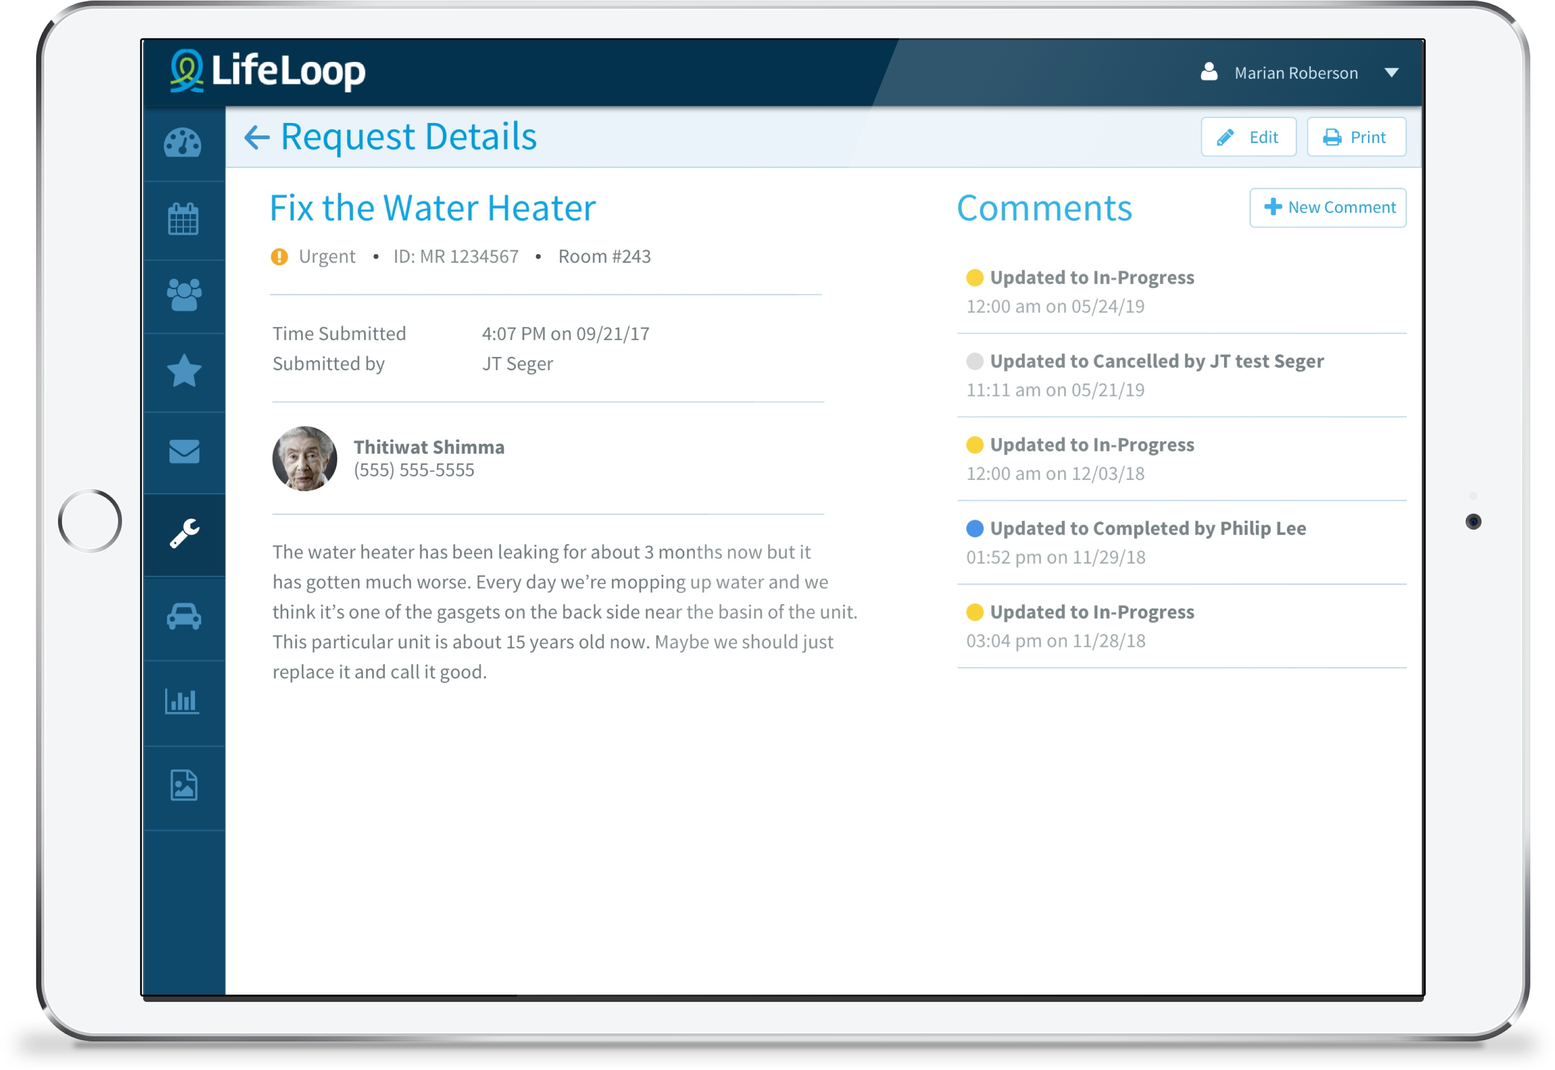
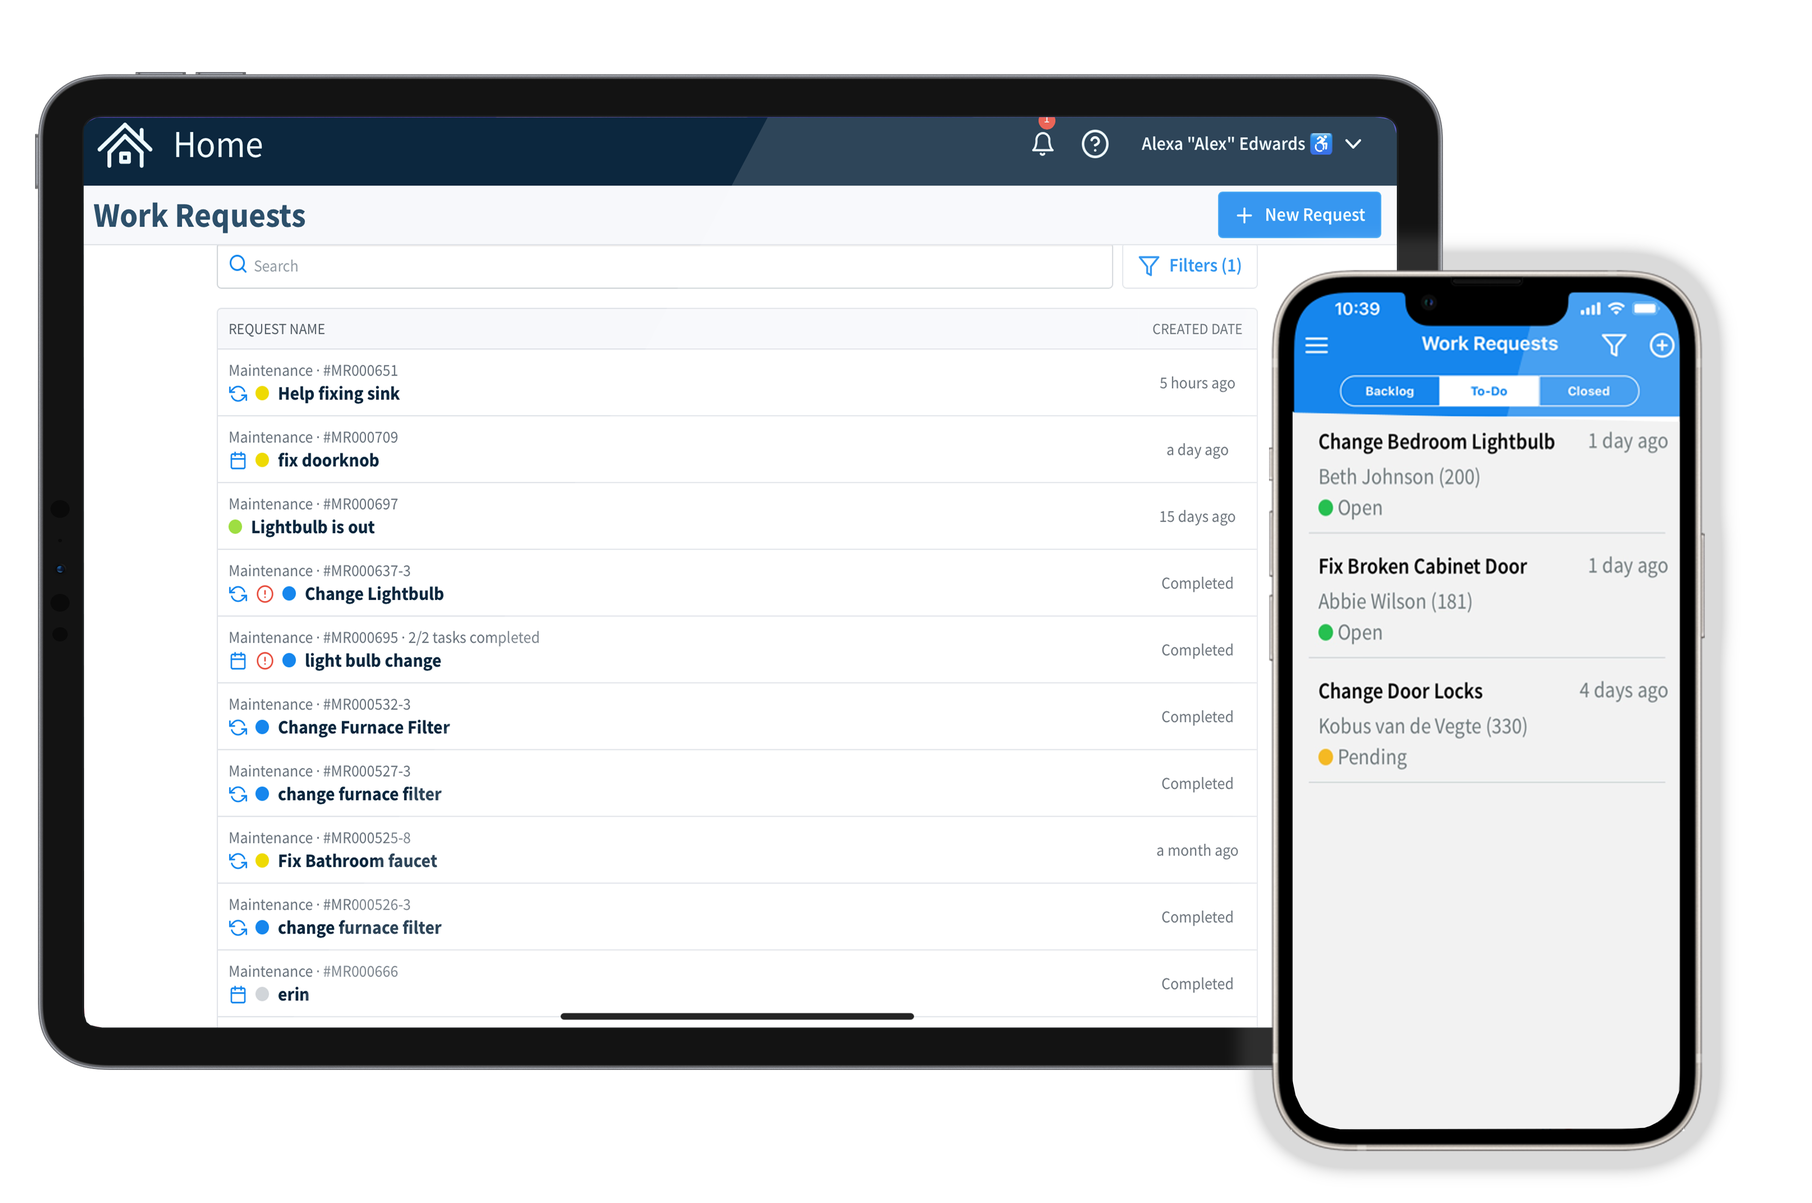
No-mo maintenance

diff --git a/src/components/feature-card-switcher.js b/src/components/feature-card-switcher.js
@@ -43,8 +43,7 @@ const FEATURES = [
     link: NAVIGATION.features.subNav.communication.link,
     headline: 'Optimize your communication efforts',
     image: 'inform',
-    body:
-      'Communication between staff members, family members and residents has never been easier or more efficient. The LifeLoop messaging platform means you can communicate 24/7 from any device.',
+    body: 'Communication between staff members, family members and residents has never been easier or more efficient. The LifeLoop messaging platform means you can communicate 24/7 from any device.',
     bullets: [
       'Easily broadcast messages to all staff, residents and family members who are connected',
       'Staff can send messages back and forth in LifeLoop',
@@ -59,8 +58,7 @@ const FEATURES = [
     link: NAVIGATION.features.subNav.calendar.link,
     headline: 'Activity calendars simplified',
     image: 'dataInformed',
-    body:
-      'LifeLoop has helped communities of all sizes effectively develop, communicate and display their activity calendars to residents and family members.',
+    body: 'LifeLoop has helped communities of all sizes effectively develop, communicate and display their activity calendars to residents and family members.',
     bullets: [
       'Save time with reoccurring activity features',
       'Build robust calendars based on resident likes',
@@ -74,8 +72,7 @@ const FEATURES = [
     link: NAVIGATION.features.subNav.designer.link,
     headline: 'Enhance your calendars & newsletters',
     image: 'newsletterDesigner',
-    body:
-      'The LifeLoop Designer allows you to create calendars, newsletters, marketing pieces, menus and more all within the existing LifeLoop platform. Meaning you don’t need multiple programs to produce and distribute publications from your community. ',
+    body: 'The LifeLoop Designer allows you to create calendars, newsletters, marketing pieces, menus and more all within the existing LifeLoop platform. Meaning you don’t need multiple programs to produce and distribute publications from your community. ',
     bullets: [
       'Easily create branded documents or request templates from our team',
       'Create calendars in monthly, two-week, one-week or daily formats',
@@ -90,8 +87,7 @@ const FEATURES = [
     link: NAVIGATION.features.subNav.displays.link,
     headline: 'Enhance resident engagement in an affordable way',
     image: 'sync',
-    body:
-      'Digital signage with LifeLoop is a low cost, easy to deploy solution for your community.  The only hardware you need is an Amazon FireStick making this an impressive, yet affordable digital signage option to implement for your residents.',
+    body: 'Digital signage with LifeLoop is a low cost, easy to deploy solution for your community.  The only hardware you need is an Amazon FireStick making this an impressive, yet affordable digital signage option to implement for your residents.',
     bullets: [
       'A fully customizable solution – incorporate brand colors, logo, etc',
       'Seamlessly syncs with your activity calendar',
@@ -105,8 +101,7 @@ const FEATURES = [
     link: NAVIGATION.features.subNav.residentTracking.link,
     headline: 'Person-centered care',
     image: 'person',
-    body:
-      'Understanding the residents flow of information is essential to maximizing their level of care and proactively identifying their needs.',
+    body: 'Understanding the residents flow of information is essential to maximizing their level of care and proactively identifying their needs.',
     bullets: [
       'Easily quantify your life enrichment',
       'Metrics can be shared with family and assist in care plans',
@@ -121,13 +116,12 @@ const FEATURES = [
     link: NAVIGATION.features.subNav.connectionPortal.link,
     headline: 'Be in two places at once',
     image: 'transparency',
-    body:
-      'Family members lean on LifeLoop to keep them up-to-date on the lives and care of their loved ones no matter where they are. The family portal sparks a genuine connection between family members and staff members and helps foster communication between residents and their families.',
+    body: 'Family members lean on LifeLoop to keep them up-to-date on the lives and care of their loved ones no matter where they are. The family portal sparks a genuine connection between family members and staff members and helps foster communication between residents and their families.',
     bullets: [
       'Share special moments with the LifeLoop family portal and mobile app',
       'Get a real-time view into your loved one’s day',
       'Receive a weekly email with in-depth details on your loved one’s engagement',
-      'Make transportation and maintenance requests easily from the portal or mobile app',
+      'Make transportation and work requests easily from the portal or mobile app',
     ],
   },
   {
@@ -137,8 +131,7 @@ const FEATURES = [
     link: NAVIGATION.features.subNav.photos.link,
     headline: 'Your word-of-mouth marketing tool',
     image: 'organize',
-    body:
-      'Photo and video sharing through the LifeLoop portals and mobile app ensures that family members have a unique window into the daily lives of their loved ones.',
+    body: 'Photo and video sharing through the LifeLoop portals and mobile app ensures that family members have a unique window into the daily lives of their loved ones.',
     bullets: [
       'Easily organize community photos',
       'Tag residents in special moments',
@@ -152,8 +145,7 @@ const FEATURES = [
     link: NAVIGATION.features.subNav.residentPortal.link,
     headline: 'Maximize their independence',
     image: 'independence',
-    body:
-      'Engaging residents and their family members with technology can have a positive impact on the life of the resident, help alleviate social isolation and give your community a competitive edge.',
+    body: 'Engaging residents and their family members with technology can have a positive impact on the life of the resident, help alleviate social isolation and give your community a competitive edge.',
     bullets: [
       'Simplistic design and easy to navigate',
       'Can be used on desktops, laptops, tables or mobile phones',
@@ -167,8 +159,7 @@ const FEATURES = [
     link: NAVIGATION.features.subNav.transportation.link,
     headline: 'Monitor your transportation in one place',
     image: 'customize',
-    body:
-      'Input and manage transportation requests with one intuitive platform. Easily view the status of each request and sort by driver or vehicle.',
+    body: 'Input and manage transportation requests with one intuitive platform. Easily view the status of each request and sort by driver or vehicle.',
     bullets: [
       'A full transportation management system',
       'Quickly filter requests by resident, driver, or vehicle',
@@ -177,17 +168,16 @@ const FEATURES = [
     ],
   },
   {
-    key: NAVIGATION.features.subNav.maintenance.key,
-    name: NAVIGATION.features.subNav.maintenance.name,
-    Icon: NAVIGATION.features.subNav.maintenance.Icon,
-    link: NAVIGATION.features.subNav.maintenance.link,
-    headline: 'Monitor your maintenance in one place',
+    key: NAVIGATION.features.subNav.workRequests.key,
+    name: NAVIGATION.features.subNav.workRequests.name,
+    Icon: NAVIGATION.features.subNav.workRequests.Icon,
+    link: NAVIGATION.features.subNav.workRequests.link,
+    headline: 'Monitor your work requests in one place',
     image: 'management',
-    body:
-      'Input and manage maintenance requests with live progress updates and a detailed history log. Easily view the status of each request and sort by approved and pending requests.',
+    body: 'Input and manage work requests with live progress updates and a detailed history log. Easily view the status of each request and sort by approved and pending requests.',
     bullets: [
-      'A full maintenance management system',
-      'Quickly filter requests by crew member, resident, room number or community location',
+      'A full work request management system',
+      'Quickly filter requests by staff member, resident, room number or community location',
       'Accessible from any Apple or Android device',
     ],
   },
@@ -240,7 +230,7 @@ export default function FeatureCardSwitcher() {
           }
         }
         management: file(
-          relativePath: { eq: "full-maintenance-management-system.png" }
+          relativePath: { eq: "full-work-request-management-system.png" }
         ) {
           childImageSharp {
             gatsbyImageData(width: 637, layout: CONSTRAINED)
@@ -312,7 +302,7 @@ export default function FeatureCardSwitcher() {
         <h4>{headline}</h4>
         <p>{body}</p>
         {!isTablet &&
-          bullets.map(bullet => (
+          bullets.map((bullet) => (
             <FlexContainer
               key={bullet}
               align="center"

diff --git a/src/utils/navigation.js b/src/utils/navigation.js
@@ -233,7 +233,7 @@ const NAVIGATION = {
           {
             question: 'What can family see/not see?',
             answer:
-              'Each community uses LifeLoop differently which means the family view is going to vary. However, some of the main features in LifeLoop that will always be viewable by family are the Activity Calendar, Messages and Announcements and their loved one’s photo library. Another feature family often will have access to is their loved one’s activity feed, highlighting all the activities they have attended or declined as well as photos from these activities. Other optional features the community may have are maintenance and transportation, which would include that user’s inputted requests and the status or any comments from staff that have been published to the family member’s view.',
+              'Each community uses LifeLoop differently which means the family view is going to vary. However, some of the main features in LifeLoop that will always be viewable by family are the Activity Calendar, Messages and Announcements and their loved one’s photo library. Another feature family often will have access to is their loved one’s activity feed, highlighting all the activities they have attended or declined as well as photos from these activities. Other optional features the community may have are work requests and transportation, which would include that user’s inputted requests and the status or any comments from staff that have been published to the family member’s view.',
           },
           {
             question:
@@ -316,7 +316,7 @@ const NAVIGATION = {
           {
             question: 'What can residents see/not see?',
             answer:
-              'If the resident portal is offered by the community, residents can see the daily agenda and all activities on the activity and/or meal calendars.  They can also see all activities that they are registered for, any messages/announcements they are recipients of, and any maintenance or transportation requests that they or family members have submitted. They can also view any photos that have been uploaded by family or staff into their gallery or that they have been tagged in.',
+              'If the resident portal is offered by the community, residents can see the daily agenda and all activities on the activity and/or meal calendars.  They can also see all activities that they are registered for, any messages/announcements they are recipients of, and any work or transportation requests that they or family members have submitted. They can also view any photos that have been uploaded by family or staff into their gallery or that they have been tagged in.',
           },
         ],
       },
@@ -345,7 +345,7 @@ const NAVIGATION = {
           {
             question: 'Can anyone enter transportation requests?',
             answer:
-              'Along with drivers entering requests, family members and residents can also submit maintenance requests if the community offers this feature. It is a staff permission to enter transportation requests, so the administrator can manage what staff members have this permission.',
+              'Along with drivers entering requests, family members and residents can also submit work requests if the community offers this feature. It is a staff permission to enter transportation requests, so the administrator can manage what staff members have this permission.',
           },
           {
             question:
@@ -360,11 +360,11 @@ const NAVIGATION = {
           },
         ],
       },
-      maintenance: {
-        key: 'maintenance',
+      workRequests: {
+        key: 'workRequests',
         Icon: workRequests,
-        name: 'Maintenance',
-        link: '/features/maintenance',
+        name: 'Work Requests',
+        link: '/features/work-requests',
         questions: [
           {
             question: 'What devices is LifeLoop compatible on?',
@@ -373,7 +373,7 @@ const NAVIGATION = {
           },
           {
             question:
-              'Can I attached photos or other documents to maintenance requests?',
+              'Can I attached photos or other documents to work requests?',
             answer: 'Yes, many users find this extremely valuable.',
           },
           {
@@ -383,25 +383,24 @@ const NAVIGATION = {
               'Yes, the community has the ability to choose whether or not they would like this feature to be available to residents and their family members.',
           },
           {
-            question:
-              'How many maintenance crew members can have access to LifeLoop?',
+            question: 'How many staff members can have access to LifeLoop?',
             answer:
-              'A community can have an unlimited number of crew members with access to LifeLoop.',
+              'A community can have unlimited staff members with access to LifeLoop.',
           },
           {
-            question: 'Can anyone enter maintenance requests?',
+            question: 'Can anyone enter work requests?',
             answer:
-              'Along with maintenance crew members entering requests, family members and residents can also submit maintenance requests if the community offers this feature. It is a staff permission to enter maintenance requests, so the administrator can manage what staff members have this permission.',
+              'Along with staff members entering requests, family members and residents can also submit work requests if the community offers this feature. It is a staff permission to enter work requests, so the administrator can manage what staff members have this permission.',
           },
           {
-            question: 'Who has the capability to manage maintenance requests?',
+            question: 'Who has the capability to manage work requests?',
             answer:
-              'The ability to manage maintenance requests is a permission that can be turned on or off for various staff members. Administrators can determine which staff members have the ability to enter requests.',
+              'The ability to manage work requests is a permission that can be turned on or off for various staff members. Administrators can determine which staff members have the ability to enter requests.',
           },
           {
-            question: 'Does maintenance get notified of new requests?',
+            question: 'Who gets notified of new requests?',
             answer:
-              'Staff members will get notified if they have the appropriate permission. The crew member assigned to the request will get a notification and the creator of the request will get notified when there is any status change to the request.',
+              'Staff members will get notified if they have the appropriate permission. The staff member assigned to the request will get a notification and the creator of the request will get notified when there is any status change to the request.',
           },
           {
             question: 'Can preventative maintenance be inputted?',

diff --git a/src/pages/features/work-requests.js b/src/pages/features/work-requests.js
@@ -6,41 +6,41 @@ import FeatureWrapper from '../../components/feature-wrapper';
 import TitleSection from '../../primitives/title.section';
 import ImageSection from '../../primitives/image-section';
 
-export default function MaintenanceFeature({ data, location }) {
+export default function WorkRequestFeature({ data, location }) {
   return (
     <FeatureWrapper
       pathname={location.pathname}
-      title="Maintenance software for assisted living communities | LifeLoop"
+      title="Work Request software for assisted living communities | LifeLoop"
     >
-      <TitleSection header="Maintenance">
+      <TitleSection header="Work Requests">
         <p>
-          The LifeLoop maintenance platform was designed for your senior living
-          community. Our maintenance software clears the clutter making it easy
-          to have a clear picture of what needs to be done.
+          The LifeLoop platform was designed for your senior living community.
+          Our software clears the clutter making it easy to have a clear picture
+          of what needs to be done for maintenance, housekeeping, IT and more.
         </p>
       </TitleSection>
       <ImageSection
         rightImage
-        title="A Full Maintenance Management System"
-        description="Input and manage maintenance requests with live progress updates and a detailed history log. Easily view the status of each request and sort by approved and pending requests. Take it a step further by inputting preventative maintenance reminders."
+        title="A full concierge management system"
+        description="Input and manage requests with live progress updates and a detailed history log. Easily view the status of each request and sort by approved, pending, and completed requests. Take it a step further by inputting preventative and recurring reminders for your community."
         image={getImage(data.management)}
       />
       <ImageSection
         leftImage
         title="Customize Your Experience"
-        description="Quickly filter requests by crew member, resident, room number or community location. In addition, print and view to-do lists for each member of the maintenance team."
+        description="Quickly filter requests by staff member, resident, room number or community location. In addition, print and view to-do lists for each member of the team."
         image={getImage(data.experience)}
       />
       <ImageSection
         rightImage
         title="On-Demand Access"
-        description="The LifeLoop maintenance management system is accessible from any apple or android device making it easy to use no matter where you are. The full-service maintenance feature is one of many features offered on the LifeLoop mobile app."
+        description="Work requests with LifeLoop is accessible from any device with internet access making it easy to use no matter where you are. The full-service feature is one of many features offered on the LifeLoop mobile app."
         image={getImage(data.demand)}
       />
       <ImageSection
         leftImage
         title="Resident & Family Requests"
-        description="Residents and family members can request maintenance via the LifeLoop mobile app or online portal. This is an optional feature that communities can choose to utilize at their discretion."
+        description="Residents and family members can make requests via the LifeLoop mobile app or online portal. This is an optional feature that communities can choose to utilize at their discretion."
         image={getImage(data.resident)}
       />
     </FeatureWrapper>
@@ -50,7 +50,7 @@ export default function MaintenanceFeature({ data, location }) {
 export const query = graphql`
   {
     management: file(
-      relativePath: { eq: "full-maintenance-management-system.png" }
+      relativePath: { eq: "full-work-request-management-system.png" }
     ) {
       childImageSharp {
         gatsbyImageData(

diff --git a/src/pages/features/connection-portal.js b/src/pages/features/connection-portal.js
@@ -45,7 +45,7 @@ export default function ConnectionPortalFeature({ data, location }) {
       <ImageSection
         rightImage
         title="Making Requests Has Never Been Easier"
-        description="With the transportation feature in LifeLoop, you can easily manage and schedule ride requests for your loved one. With the maintenance feature, you can input maintenance requests on behalf of your loved one and receive progress updates and a detailed history log."
+        description="With the transportation feature in LifeLoop, you can easily manage and schedule ride requests for your loved one. With the work request feature, you can input work requests on behalf of your loved one and receive progress updates and a detailed history log."
         image={getImage(data.requests)}
       />
     </FeatureWrapper>

diff --git a/src/cms/testimonials/eric-barr_2021-08-25-19-20-37.md b/src/cms/testimonials/eric-barr_2021-08-25-19-20-37.md
@@ -1,11 +1,11 @@
 ---
 logo: /images/cms/50794619_240315350194397_8326674971023638528_n.png
-quote: " I did not expect to come in and have a technology platform but also
+quote: ' I did not expect to come in and have a technology platform but also
   build a meaningful relationship with the company. It has been cool for me but
   also super helpful to my staff. There is a lot of opportunity for our team to
-  expand into everything that LifeLoop has to offer."
+  expand into everything that LifeLoop has to offer.'
 author: Eric Barr
 position: Executive Director, Elaine
 pages:
-  - /features/maintenance
+  - /features/work-requests
 ---

diff --git a/src/cms/testimonials/scott-randolph_2021-08-24-14-49-11.md b/src/cms/testimonials/scott-randolph_2021-08-24-14-49-11.md
@@ -10,5 +10,5 @@ quote: I can tell you from personal experience that LifeLoop has been a game
 author: Scott Randolph
 position: Maintenance Director
 pages:
-  - /features/maintenance
+  - /features/work-requests
 ---

diff --git a/src/cms/testimonials/lisa-moes_2021-08-23-21-07-56.md b/src/cms/testimonials/lisa-moes_2021-08-23-21-07-56.md
@@ -10,5 +10,5 @@ pages:
   - /
   - /solutions/senior-living
   - /features/transportation
-  - /features/maintenance
+  - /features/work-requests
 ---
